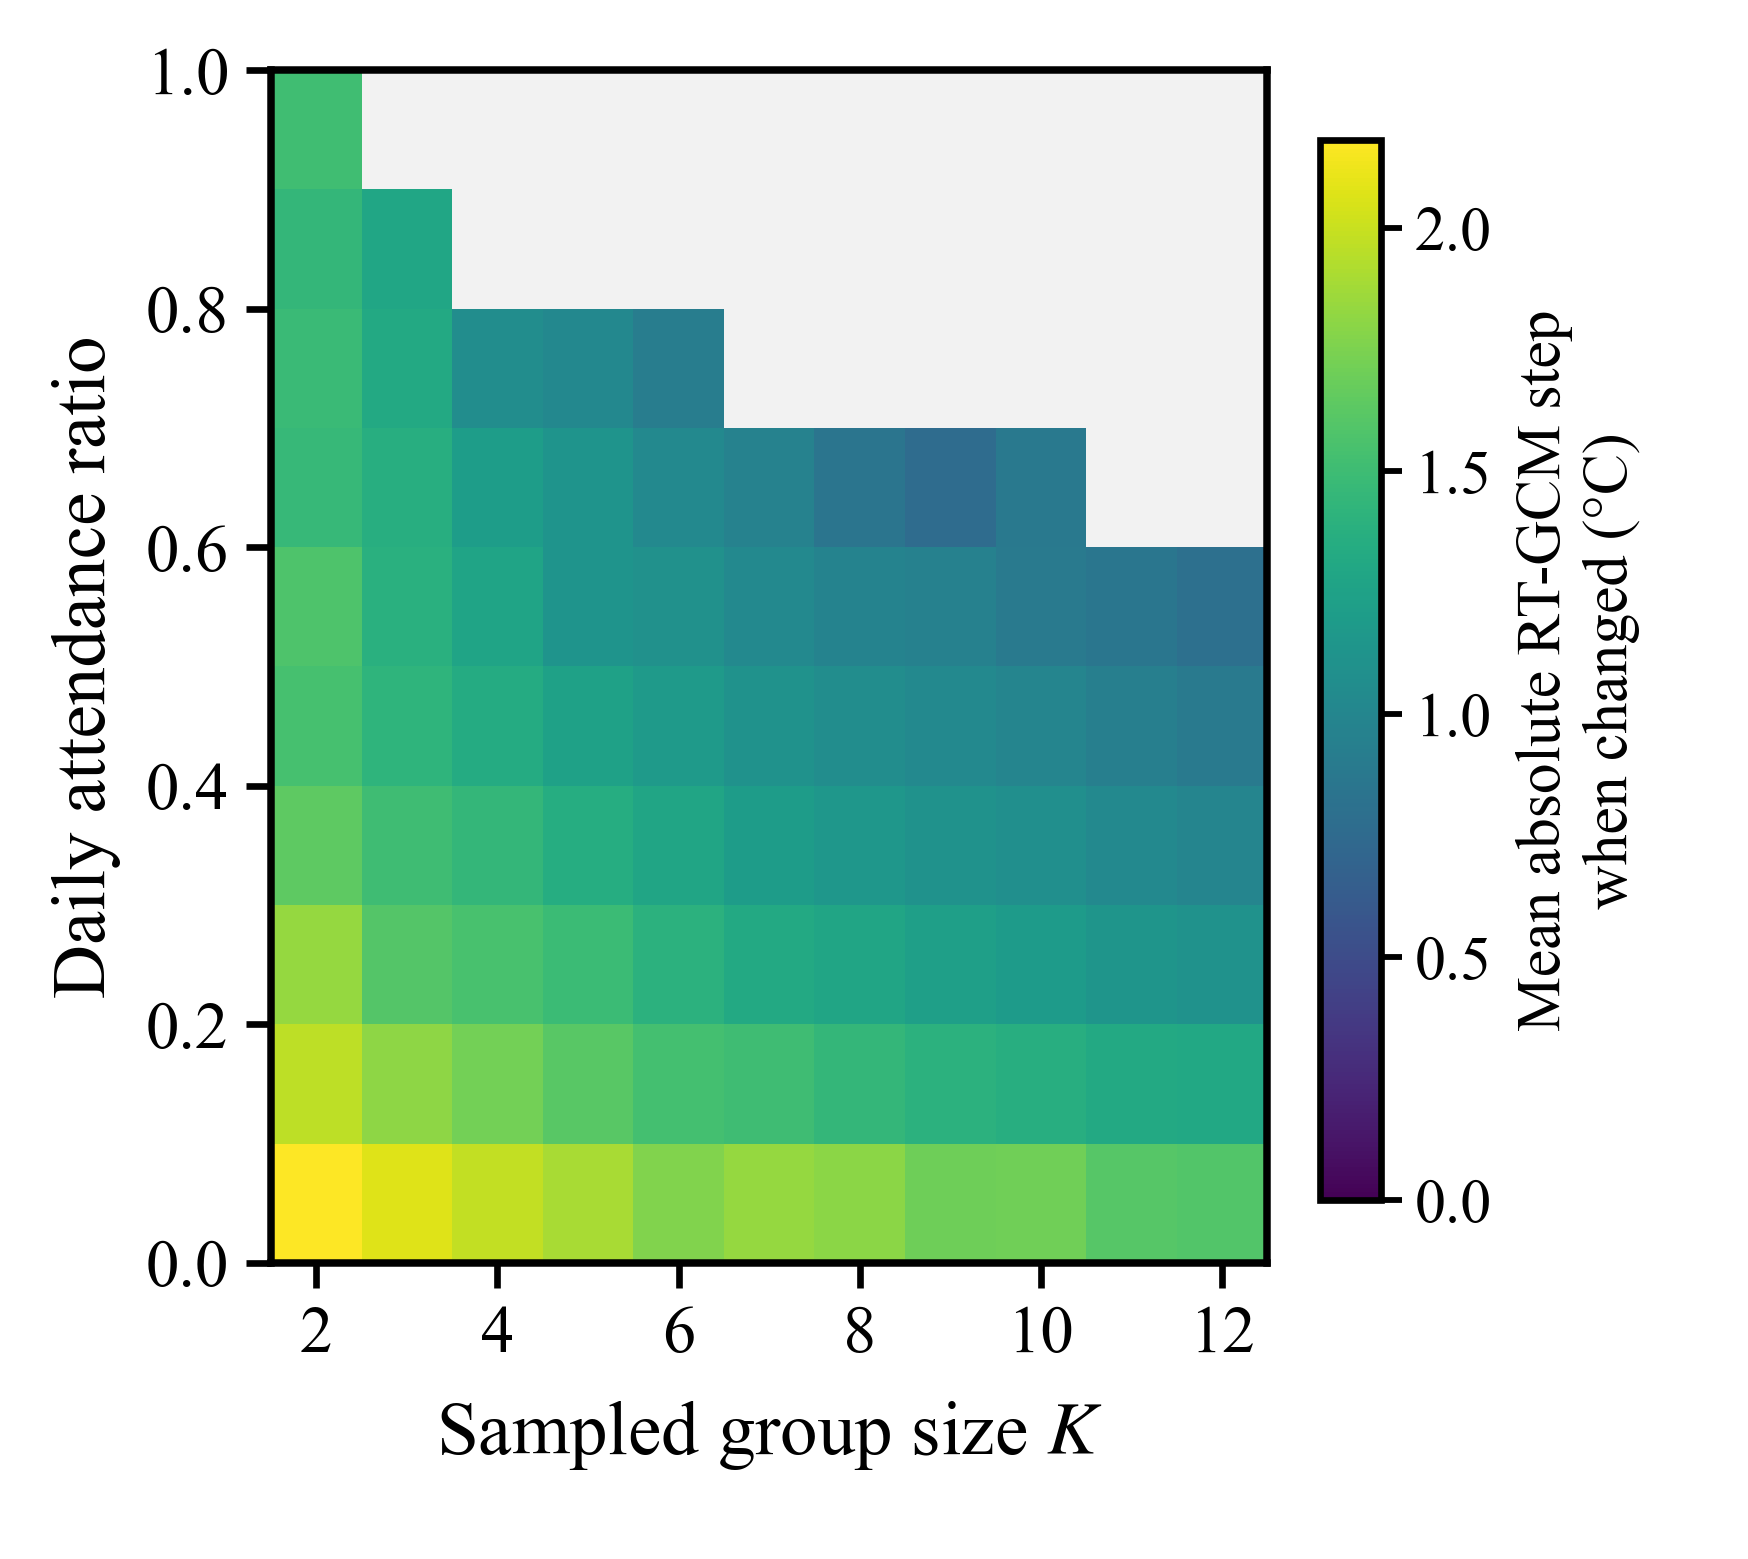
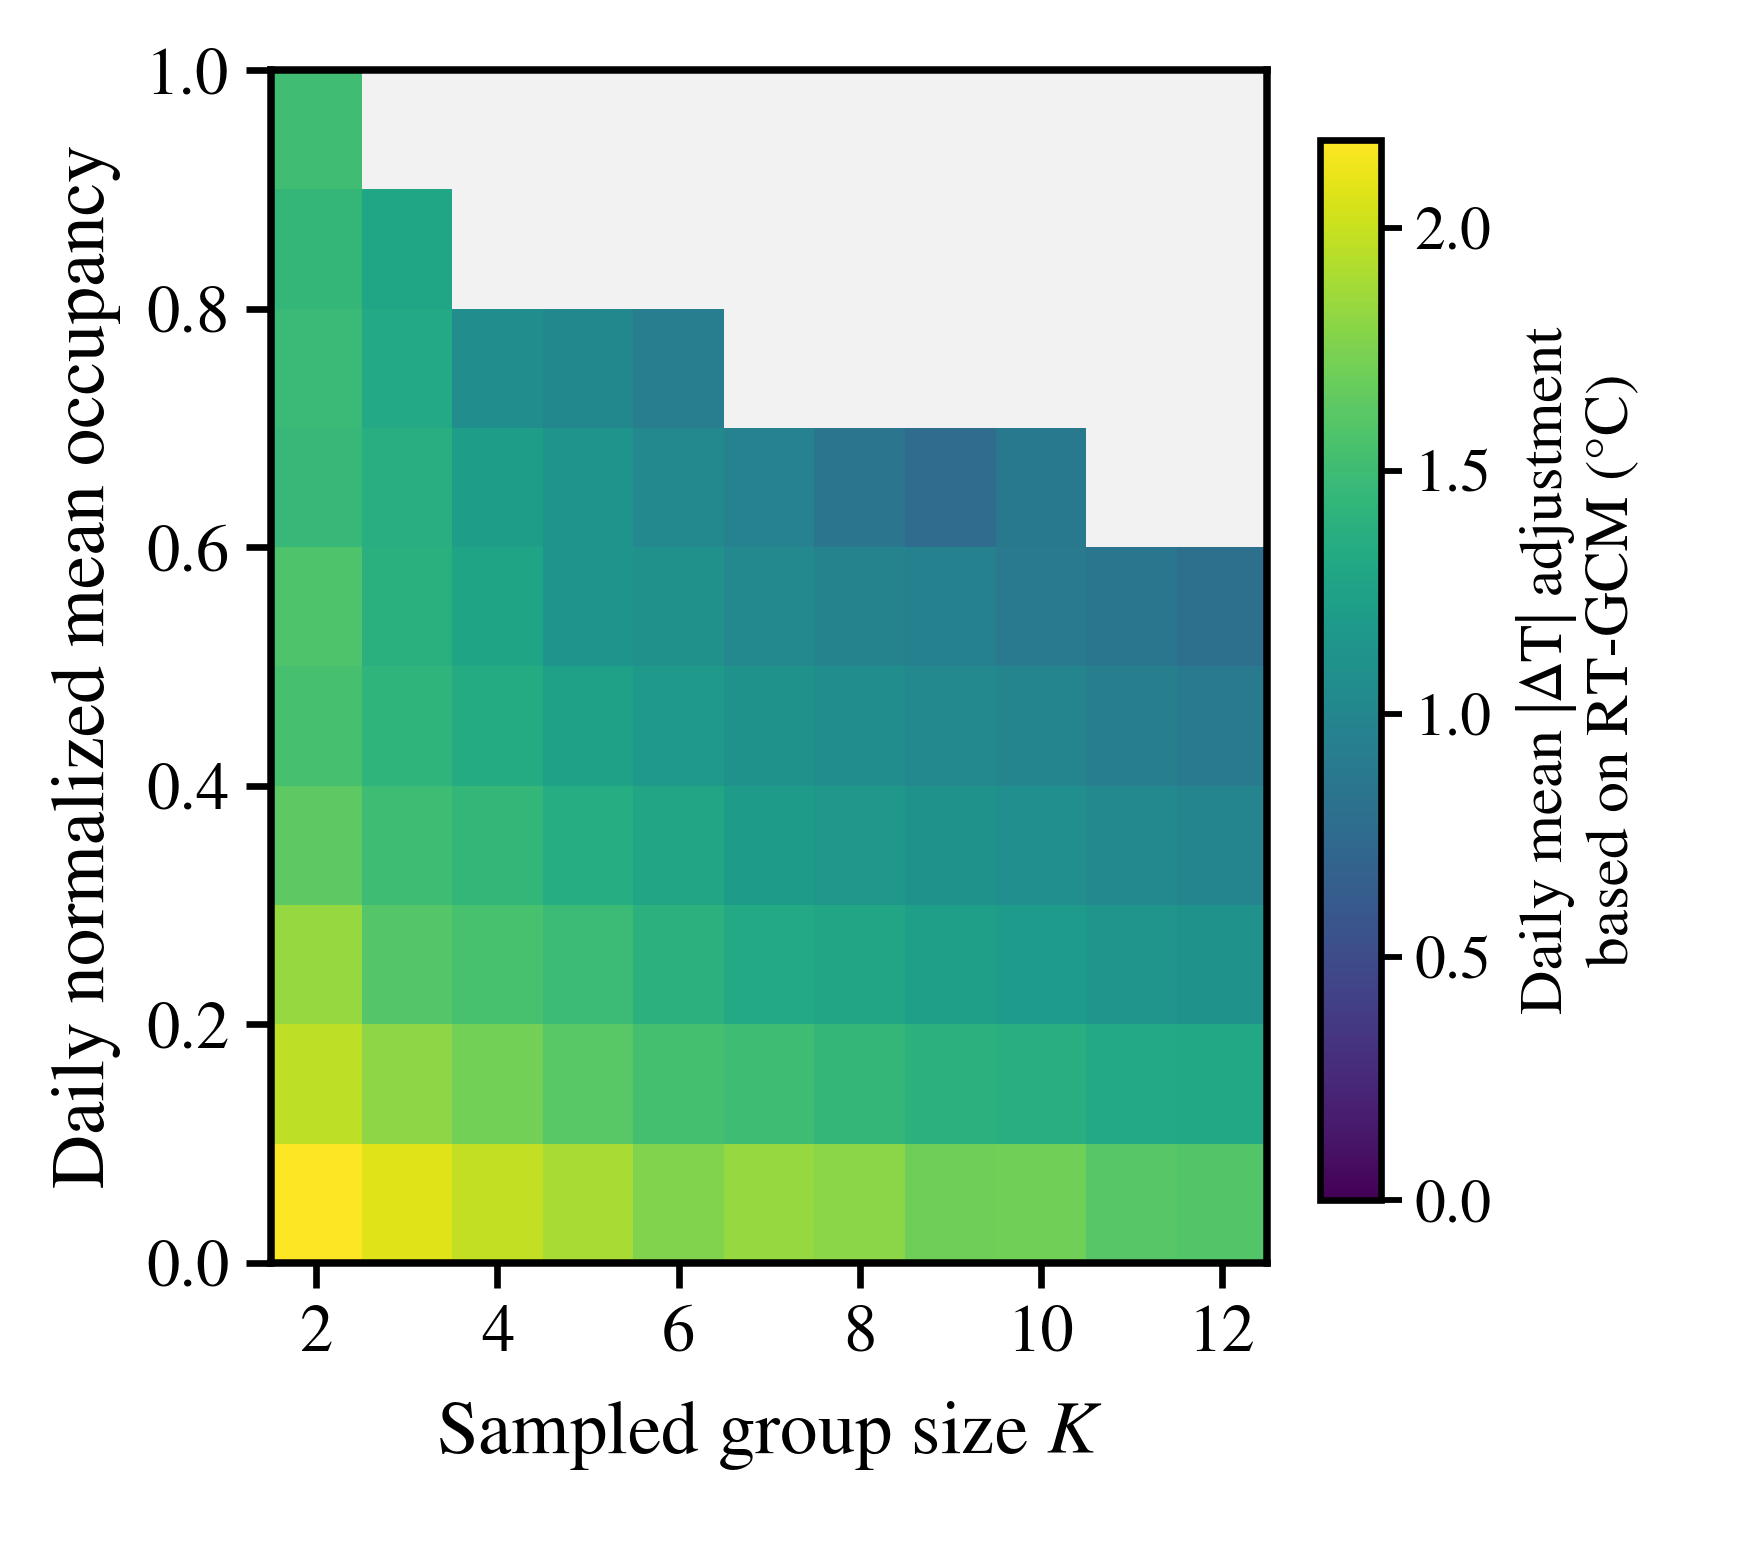
backup on 16th Oct

diff --git a/chapters/ch3-Results.tex b/chapters/ch3-Results.tex
@@ -97,7 +97,7 @@ Because the \ac{sgcm} and \ac{dgcm} use coarser occupant-composition representat
     \begin{subfigure}{0.48\linewidth}
         \centering
         \includegraphics[width=\linewidth]{\Pic{png}{fig3b_setpoint_adjustment_by_group_size_and_occupancy_density_paper}}
-        \caption{Distribution of temperature adjustment magnitudes $|\Delta T|$ by subgroup size $K$ and normalized daily mean occupancy $\bar{N}_{r,d}/K$}
+        \caption{Distribution of temperature adjustment magnitudes $|\Delta T|$ by subgroup size $K$ and daily normalized mean occupancy $\bar{N}_{r,d}/K$}
         \label{fig:DynSpStepHeatmap}
     \end{subfigure}
     \caption{Distribution of temperature adjustment magnitudes $|\Delta T|$}
@@ -123,6 +123,13 @@ Here, \ac{utr} indicates how much occupancy composition present in the room shif
 It can be seen that as \ac{utr} increases, the action-needed window ratio also increases; when \ac{utr} reaches approximately 0.7--0.8, the action-needed window ratio reaches \qty{90}{\percent}.
 This indicates that large occupant-composition shifts, as captured by \ac{utr}, are associated with more frequent actionable setpoint changes.
 
+\begin{figure}[pos=htbp!]
+    \centering
+    \includegraphics[width=0.7\linewidth]{\Pic{png}{analysis25_15min_action_step_rate_by_15min_utr}}
+    \caption{Relationship between 15-minute user turnover rate and action-needed window ratio.}
+    \label{fig:CtrlWindowRatio}
+\end{figure}
+
 \autoref{fig:UTRexamples} shows the mean \ac{utr} transition by time of day, calculated as the weekday mean in four offices.
 Generally, \ac{utr} marks the highest values around \DTMtime{08:00:00} to \DTMtime{08:30:00} and around \DTMtime{17:30:00} to \DTMtime{18:00:00}, which are typical occupant arrival and departure times, respectively.
 Also, \ac{utr} marks higher values at lunchtime around \DTMtime{12:00:00} to \DTMtime{13:00:00}.
@@ -130,13 +137,6 @@ During office hours, the \ac{utr} values of Shared Office 5A and Shared Office 5
 \ac{utr} marks a higher value around 1.0 on Mondays in Office 5B, and in Shared Office 5B \ac{utr} marks approximately 0.8 on Mondays.
 This exceptional hight \ac{utr} values relates to internal team meeting held in other meeting rooms.
 Thus, this \ac{utr} transition figures can indicate the dynamic office usage transition and capture the specific office usage types.
-
-\begin{figure}[pos=htbp!]
-    \centering
-    \includegraphics[width=0.7\linewidth]{\Pic{png}{analysis25_15min_action_step_rate_by_15min_utr}}
-    \caption{Relationship between 15-minute user turnover rate and action-needed window ratio.}
-    \label{fig:CtrlWindowRatio}
-\end{figure}
 
 \begin{figure}[pos=htbp!]
     \centering

diff --git a/chapters/ch4-Discussion.tex b/chapters/ch4-Discussion.tex
@@ -45,7 +45,6 @@ This distinction is important for \ac{gcm}-based control because the preferred g
 Shared offices show more dynamic \ac{utr} transitions during office hours, while assigned offices generally show lower values such as \qtyrange{0.2}{0.4}{}.
 Some offices also show weekly turnover patterns; for example, Admin Office C and Shared Office 2 are affected by group meetings outside the target office rooms on Monday afternoon.
 \ac{utr} can capture such office-use patterns, indicating its usefulness for identifying when \ac{rtgcm}-based control is likely to be operationally relevant.
-
 \ac{utr} complements mean occupancy by indicating whether represented comfort profiles are being replaced, extending prior discussions of dynamic diversity in comfort-driven control~\cite{jung_energy_2020}.
 The near-overlap across $K$ in Figure~\ref{fig:CtrlWindowRatio} shows that turnover is a better guide to update frequency than $K$ alone.
 
@@ -55,14 +54,12 @@ The three aggregation levels suggest a deployment hypothesis.
 A static representation may be adequate in zones with stable membership, daily updating may offer a lower-complexity response to attendance variation, and real-time updating may be most useful when within-day composition changes frequently.
 Longitudinal utilization research shows that movement and workstation use vary by season and spatial context~\cite{gocer_overlaps_2022}, while occupant-information reviews emphasize that higher resolution brings additional infrastructure, privacy, and data-management requirements \cite{nagy_ten_2023}\cite{obrien_key_2020}\cite{zafari_survey_2019}.
 The observed \ac{utr} ranges should therefore be validated locally.
-
 \ac{utr} can gate real-time updates to high-turnover periods, with deadbands or minimum hold times limiting excessive cycling.
 Such gating does not remove sensing trade-offs in accuracy, latency, energy use, cost, scalability, and privacy~\cite{zafari_survey_2019}.
 
 These findings suggest that \ac{rtgcm}-level control should not be adopted solely because real-time tracking is available.
 It is most valuable in sparse or highly variable shared-office conditions where occupant composition changes frequently.
 In contrast, a \ac{dgcm} may provide a practical compromise when daily attendance differs from regular membership but within-day turnover is moderate, while a \ac{sgcm} may be sufficient when occupancy is stable or group size is large enough for individual differences to average out.
-
 Because activity-based working outcomes depend on implementation and occupant use~\cite{marzban_review_2023}, these policy thresholds should be calibrated to each workplace.
 
 \subsection{Limitations}

diff --git a/chapters/ch2-Method.tex b/chapters/ch2-Method.tex
@@ -162,11 +162,8 @@ T_{\mathrm{set}}^{\mathrm{RT}}(t)=T_{G_{r,t}^{\mathrm{RT}}}^{*},
 \label{eq:policy_setpoints}
 \end{equation}
 where $d(t)$ is the calendar day containing timestamp $t$.
-
-
 In addition to these three group-model-based policies, a fixed \qty{24}{\celsius} setpoint is used as an additional baseline.
 For each room and subgroup size, \qty{1000} Monte Carlo trials were formed by combining sampled location-log agents and assigned \acp{pcm}, and one-month \ac{occ} simulations based on the three \acp{gcm} were conducted.
-
 
 \subsection{Evaluation Metrics}
 \label{sec:EvalMet}
@@ -177,7 +174,6 @@ For each room and subgroup size, \qty{1000} Monte Carlo trials were formed by co
 While many studies emphasize occupancy count and related parameters, this study also considers occupant-composition turnover.
 Let $\mathcal{T}_{r,d}$ denote the ordered set of analysis timestamps for room $r$ on day $d$, and let $S_{r,t}$ denote the set of sampled location-log agents present in room $r$ at timestamp $t$.
 The realized occupancy count is $N_{r,t}=|S_{r,t}|$.
-
 The subgroup size $K$ is the number of sampled location-log agents in a simulation condition, whereas $N_{r,t}$ is the number of those location-log agents actually present at timestamp $t$.
 
 \paragraph{Realized occupancy count}
